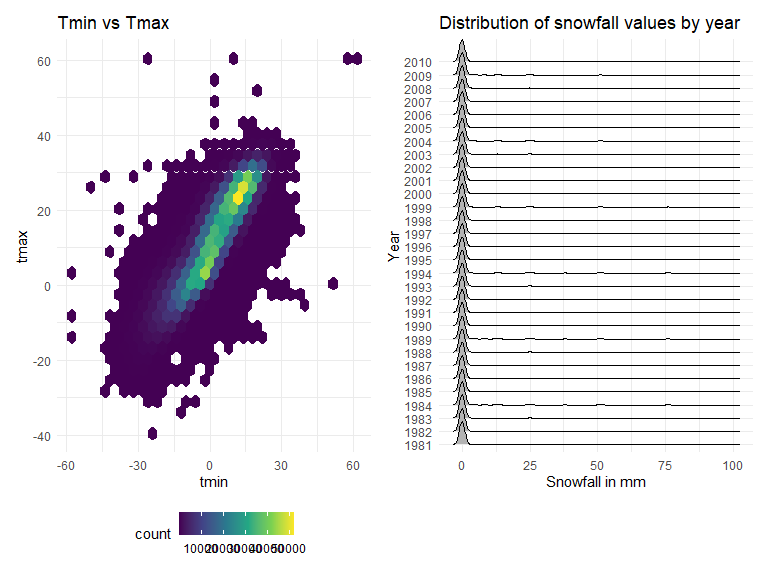
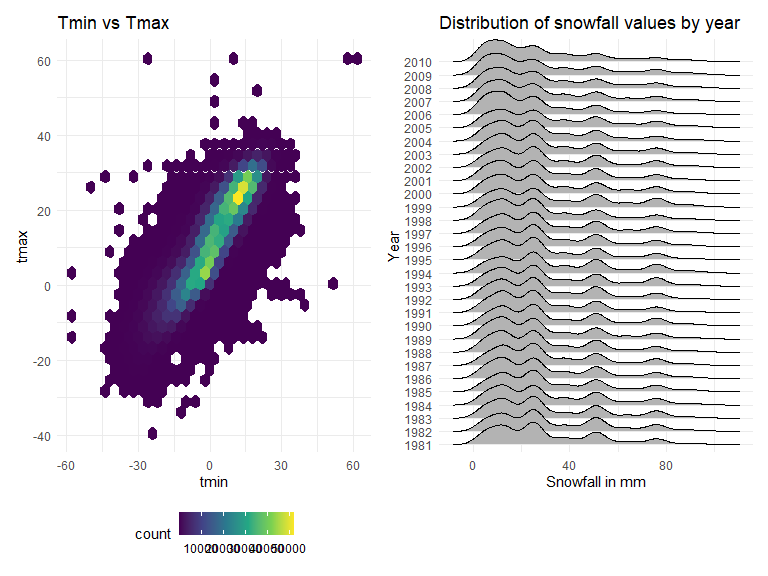
Made some edits for problem 2 & 3

Changed region(s): [[0.5938, 0.0625, 0.9375, 0.8125], [0.9375, 0.7812, 0.9688, 0.8125]]

diff --git a/p8105_hw3_wm2460.md b/p8105_hw3_wm2460.md
@@ -279,6 +279,7 @@ variable, therefore I will use the original variable to proceed.
 avg_max = noaa_new %>% 
   group_by(id, year, month) %>% 
   filter(month %in% c("1", "7")) %>% 
+  mutate(month = month.abb[month]) %>% 
   summarize(mean_tmax = mean(tmax, na.rm = TRUE)) %>% 
   ggplot(aes(x = year, y = mean_tmax, colour = id)) + 
     geom_point(alpha = 0.25) + 
@@ -329,7 +330,7 @@ vs_p
 snowfall_p = 
   noaa_new %>% 
   group_by(year) %>% 
-  filter(snow %in% (0:100)) %>% 
+  filter(snow %in% (1:99)) %>% 
   ggplot(aes(x = snow, y = as.factor(year))) +
   geom_density_ridges() +
   labs(title = "Distribution of snowfall values by year", 
@@ -339,7 +340,7 @@ snowfall_p =
 snowfall_p
 ```
 
-    ## Picking joint bandwidth of 1.03
+    ## Picking joint bandwidth of 3.76
 
 <img src="p8105_hw3_wm2460_files/figure-gfm/snowfall-1.png" width="90%" />
 
@@ -349,7 +350,7 @@ snowfall_p
 (vs_p + snowfall_p)
 ```
 
-    ## Picking joint bandwidth of 1.03
+    ## Picking joint bandwidth of 3.76
 
 <img src="p8105_hw3_wm2460_files/figure-gfm/combine_plots-1.png" width="90%" />
 
